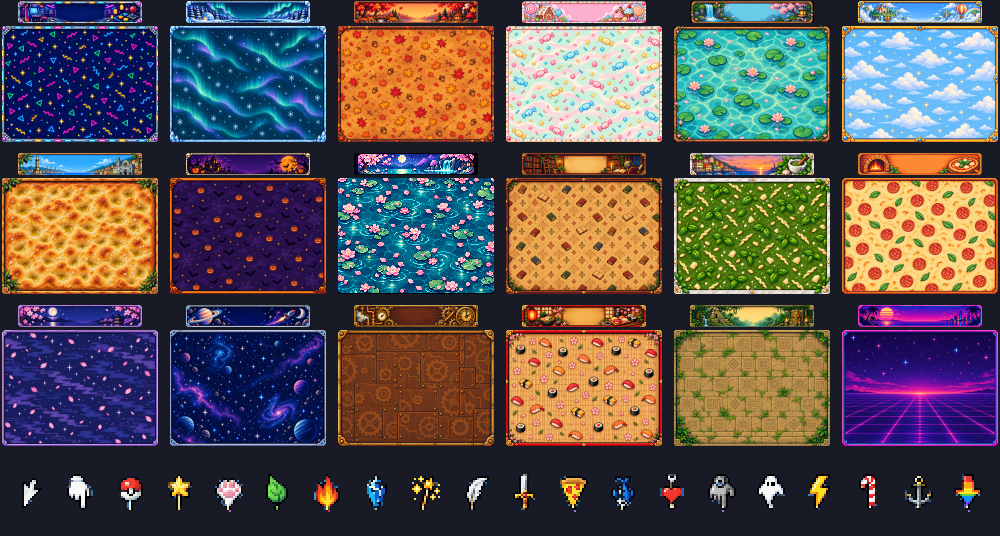
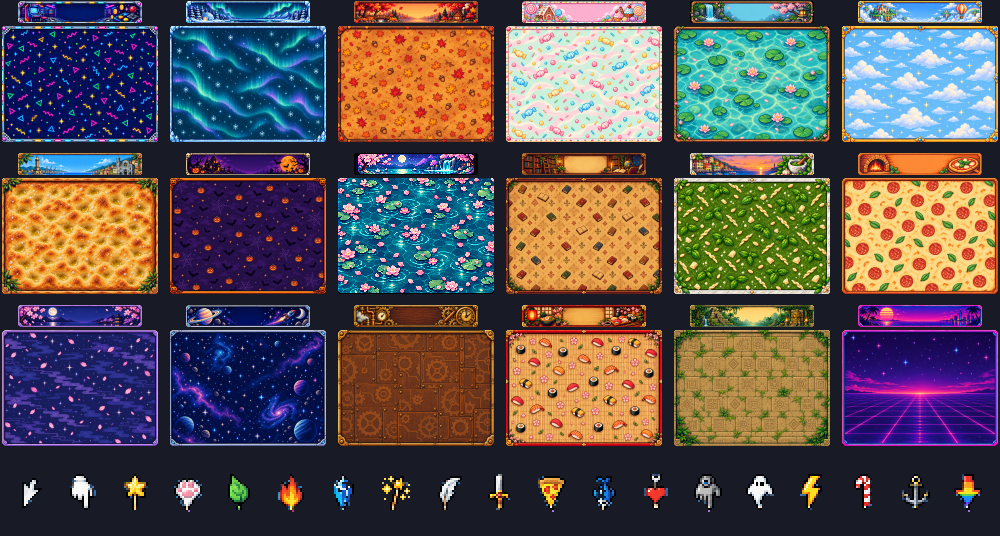
1.27.7: the box menu stays in full screen
A box's menu opened from ALL BOXES (WALLPAPER, SKIN, POINTER) opens over the
boxes instead of dropping back to the small screen: the view stays drawn as
it was and the list window sits where the cart's screen would show it, so
keys and taps work as before and the previews show on the boxes. The
on-screen pad stays hidden over it, and comes back only for a row the cart
runs on its own screen.

The README picture leaves out the Poke Ball pointer.

Driven on Emerald in the real game. 651 + 38 checks.

Changed region(s): [[0.062, 0.8657, 0.93, 0.9552]]

diff --git a/CHANGELOG.md b/CHANGELOG.md
@@ -1,5 +1,11 @@
 # Changelog
 
+## 1.27.7 -- the box menu stays in full screen
+
+- On Ruby, Sapphire, Emerald, FireRed and LeafGreen a box's menu opened from
+  ALL BOXES (WALLPAPER, SKIN, POINTER) opens over the boxes instead of dropping
+  back to the small screen, and the previews show on the boxes as you scroll.
+
 ## 1.27.6 -- swipes are quiet
 
 - On Ruby, Sapphire, Emerald, FireRed and LeafGreen a box changed by a swipe,

diff --git a/README.md b/README.md
@@ -67,7 +67,7 @@ the BOX MENU — is the same screen doing the same thing.
 
 ## On Ruby, Sapphire and Emerald
 
-![The eighteen Gen 3 wallpapers, and the pointers](docs/gen3-wallpapers.png)
+![The eighteen Gen 3 wallpapers, and pointers](docs/gen3-wallpapers.png)
 
 Since 1.27.0. Verified in game on Emerald and LeafGreen; Ruby, Sapphire and
 FireRed are untested.
